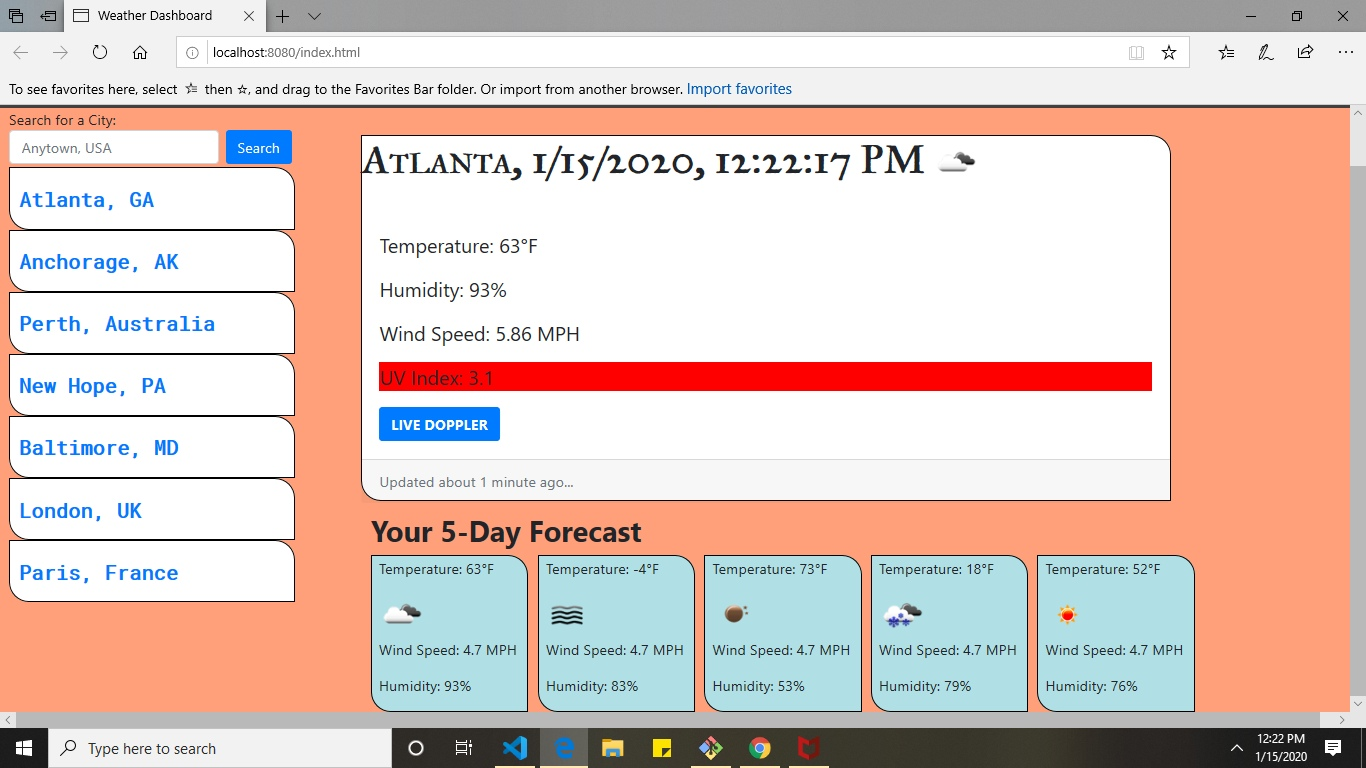
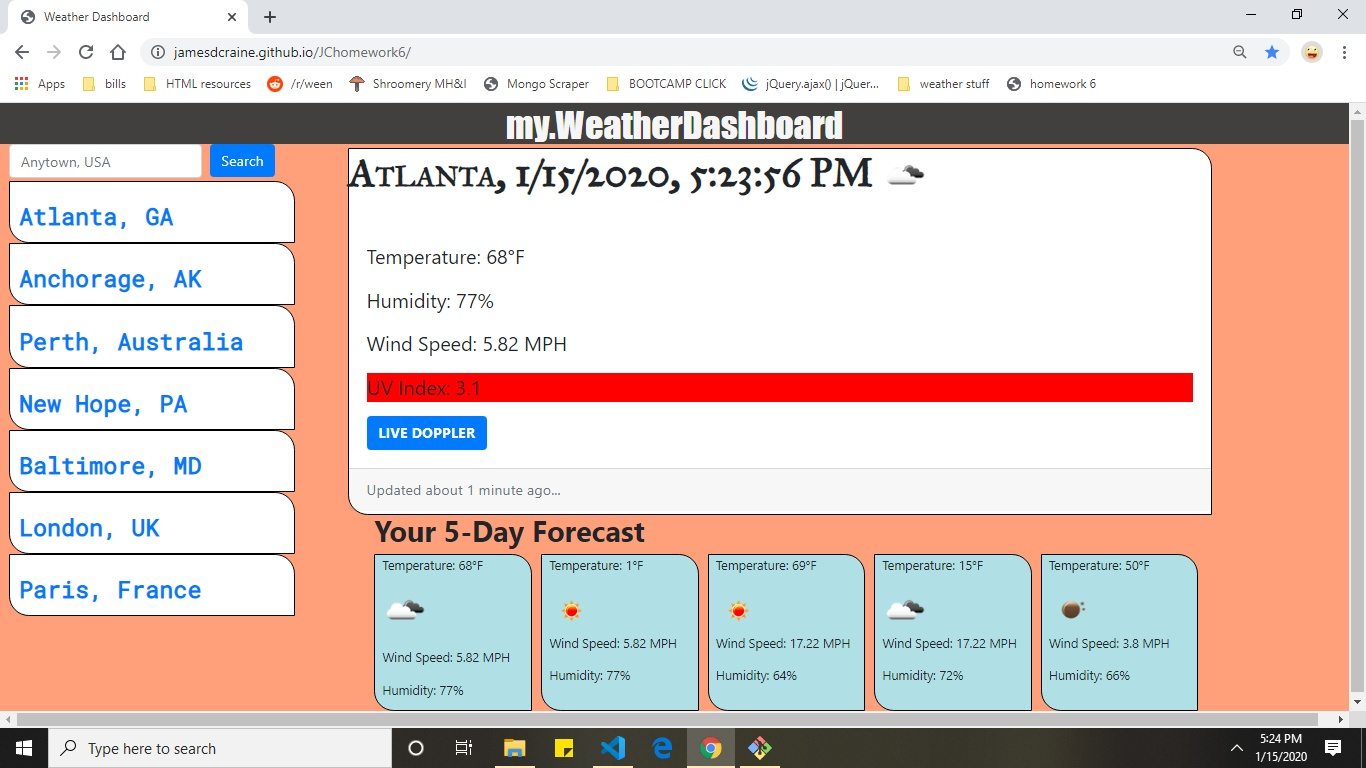
final commit of day (maybe)

diff --git a/assets/cities/anchorage.html b/assets/cities/anchorage.html
@@ -105,6 +105,7 @@
     <p class="humidity5"></p>
   </div>
   </div></div></div>
+  <script src="https://cdn.jsdelivr.net/momentjs/2.12.0/moment.min.js"></script>
   <script src="../../assets/script.js"></script>
 </body>
 </html>

diff --git a/assets/cities/baltimore.html b/assets/cities/baltimore.html
@@ -105,6 +105,7 @@
     <p class="humidity5"></p>
   </div>
   </div></div></div>
+  <script src="https://cdn.jsdelivr.net/momentjs/2.12.0/moment.min.js"></script>
   <script src="../../assets/script.js"></script>
 </body>
 </html>

diff --git a/assets/cities/london.html b/assets/cities/london.html
@@ -107,6 +107,7 @@
     <p class="humidity5"></p>
   </div>
   </div></div></div>
+  <script src="https://cdn.jsdelivr.net/momentjs/2.12.0/moment.min.js"></script>
   <script src="../../assets/script.js"></script>
 </body>
 </html>

diff --git a/assets/cities/newhope.html b/assets/cities/newhope.html
@@ -106,6 +106,7 @@
     <p class="humidity5"></p>
   </div>
   </div></div></div>
+  <script src="https://cdn.jsdelivr.net/momentjs/2.12.0/moment.min.js"></script>
   <script src="../../assets/script.js"></script>
 </body>
 </html>

diff --git a/assets/cities/paris.html b/assets/cities/paris.html
@@ -106,6 +106,7 @@
     <p class="humidity5"></p>
   </div>
   </div></div></div>
+  <script src="https://cdn.jsdelivr.net/momentjs/2.12.0/moment.min.js"></script>
   <script src="../../assets/script.js"></script>
 </body>
 </html>

diff --git a/assets/cities/perth.html b/assets/cities/perth.html
@@ -107,6 +107,7 @@
     <p class="humidity5"></p>
   </div>
   </div></div></div>
+  <script src="https://cdn.jsdelivr.net/momentjs/2.12.0/moment.min.js"></script>
   <script src="../../assets/script.js"></script>
 </body>
 </html>

diff --git a/index.html b/index.html
@@ -101,6 +101,7 @@
     <p class="humidity5"></p>
   </div>
   </div></div>
+  <script src="https://cdn.jsdelivr.net/momentjs/2.12.0/moment.min.js"></script>
   <script src="assets/script.js"></script>
 </body>
 </html>

diff --git a/assets/style.css b/assets/style.css
@@ -22,6 +22,7 @@ width: auto;
     background-color: rgb(65, 64, 63);
     height: 45px;
     font-size: 30px;
+    width: auto;
 }
 
 .city-list {
